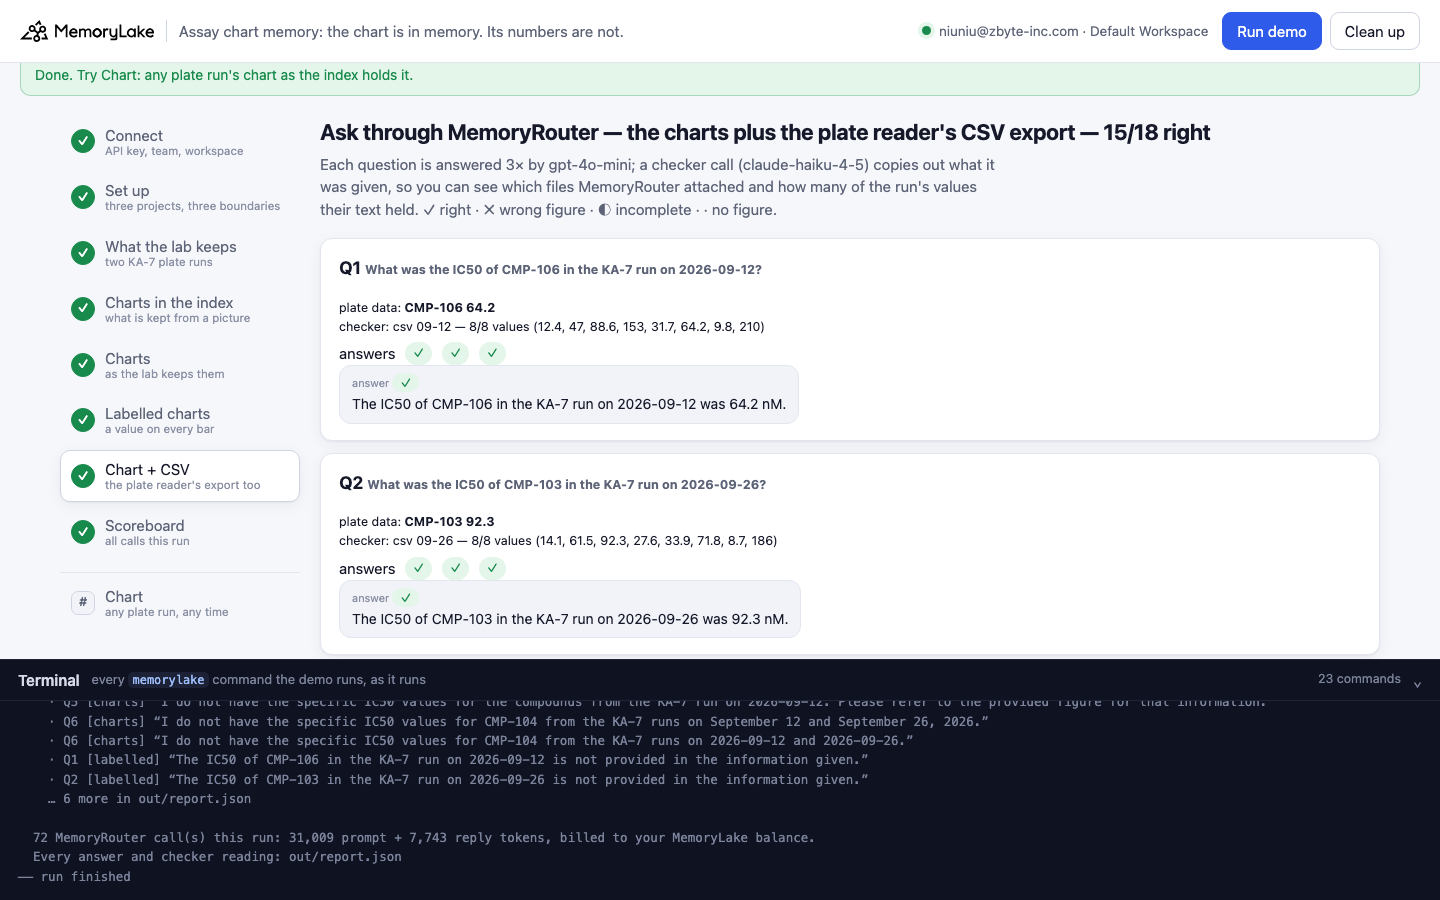
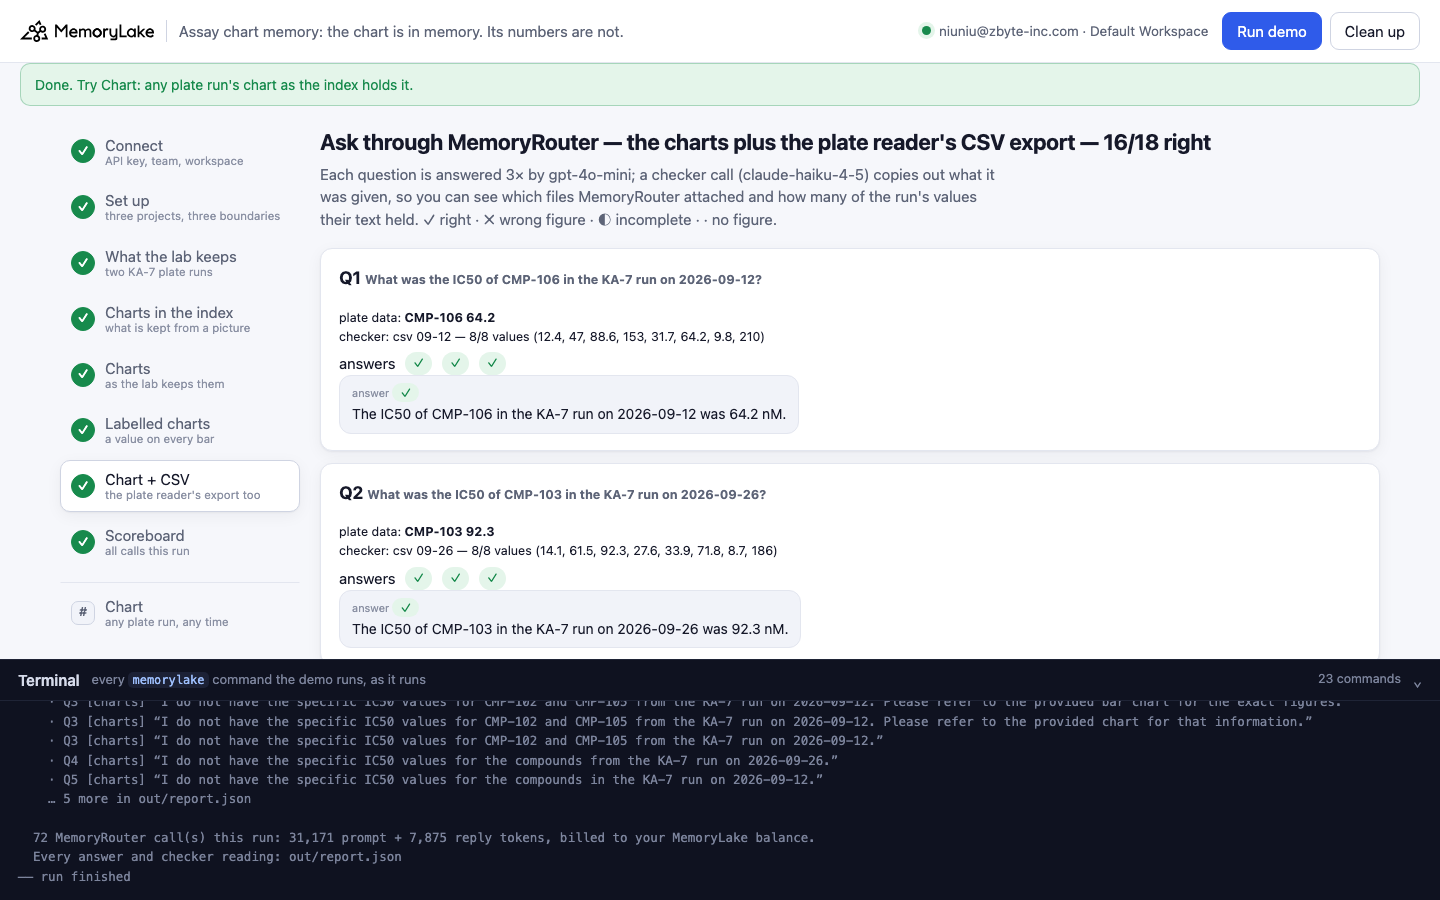
assay-chart-memory: video links (CLI 7:07 · Web 7:42), totals over all 8 runs, screenshots from the recording run

diff --git a/README.md b/README.md
@@ -86,7 +86,7 @@ that memory can hold once it is more than coding sessions.
 | [precedent-memory](precedent-memory/) | Legal (case memory) | Does the assistant see the page that says "reversed"? 16 precedent memos (PDF) behind MemoryRouter, which attaches documents one page at a time: the Tarrow memo's holding is on page 1, its appellate reversal on page 4. Over 14 runs, 43/168 answers cited the reversed trial ruling as good law; adding a citator to the boundary 30/168. Control: the holding page alone 42/42 ✗, holding then addendum 0/42. A citator check after the model (`fact list --query` per cited case) held back all 73. | ~5 min | [CLI 5:09](https://github.com/memorylake-ai/memorylake-usecases/releases/download/precedent-memory-v1/precedent-memory-cli-demo.mp4) · [Web 5:40](https://github.com/memorylake-ai/memorylake-usecases/releases/download/precedent-memory-v1/precedent-memory-web-demo.mp4) |
 | [report-table-memory](report-table-memory/) | Finance (hedge-fund research) | 4,5 is a decimal — in the text MemoryRouter attaches, the comma is also a column. Six IR reports (PDF, four in European number format) and the same tables as .xlsx: MemoryRouter attaches a PDF table as unquoted comma-separated values, so `Lieferzeit (Tage),12,4,5` reads as 12 \| 4.5 or 12.4 \| 5. Over 7 runs, answers on rows that split two ways were wrong 84/140 (one-way rows 0/84); the .xlsx boundary 0/224; handing the same table over with the cell boundaries kept 0/70. A deterministic reading counter flags the risky rows before anything is asked. | ~8 min | [CLI 7:20](https://github.com/memorylake-ai/memorylake-usecases/releases/download/report-table-memory-v1/report-table-memory-cli-demo.mp4) · [Web 7:40](https://github.com/memorylake-ai/memorylake-usecases/releases/download/report-table-memory-v1/report-table-memory-web-demo.mp4) |
 | [stock-sheet-memory](stock-sheet-memory/) | Operations (weekly stock count) | The warehouse is the sheet name — and the attached rows never say which one. One workbook, a sheet per warehouse, same columns: MemoryRouter attaches each sheet's table labelled `(file / sheet)` with one sheet name per file, so Bristol's rows arrive labelled *Glasgow*. Over 10 runs, the workbook as kept got 120/320 right (92 answers gave another warehouse's count, 108 no figure; 45 of 76 attached tables carried another warehouse's label); the same numbers with a `Site` column on every row 320/320. | ~5 min | [CLI 5:33](https://github.com/memorylake-ai/memorylake-usecases/releases/download/stock-sheet-memory-v1/stock-sheet-memory-cli-demo.mp4) · [Web 5:40](https://github.com/memorylake-ai/memorylake-usecases/releases/download/stock-sheet-memory-v1/stock-sheet-memory-web-demo.mp4) |
-| [assay-chart-memory](assay-chart-memory/) | Healthcare & life sciences (biotech assay team) | The chart is in memory — its numbers are not. An image is indexed as a vision summary plus the text read off it, and that text is what MemoryRouter attaches for it: a plate run's IC50 bar chart kept 0 of 8 values, and with the value printed on every bar, 2 of 8 (the lowest and the highest, the ones the summary chose). Over 6 runs, the charts got 0/108 right (96 "not given", plus lists built from the summary's prose), the labelled charts 0/108 (36 wrong — e.g. seven compounds "below 40 nM" where four are), and the charts plus the plate reader's CSV 90/108 — the 18 misses a top-three the model mis-sorted with all eight values attached. | ~7 min | recording |
+| [assay-chart-memory](assay-chart-memory/) | Healthcare & life sciences (biotech assay team) | The chart is in memory — its numbers are not. An image is indexed as a vision summary plus the text read off it, and that text is what MemoryRouter attaches for it: a plate run's IC50 bar chart kept 0 of 8 values, and with the value printed on every bar, 2 of 8 (the lowest and the highest — the ones the summary chose). Over 8 runs, the charts got 0/144 right (132 "not given", plus lists built from the summary's prose), the labelled charts 0/144 (47 wrong — e.g. seven compounds "below 40 nM" where four are, or invented IC50s), and the charts plus the plate reader's CSV 121/144 — the misses a top three the model mis-sorted with all eight values attached. | ~7 min | [CLI 7:07](https://github.com/memorylake-ai/memorylake-usecases/releases/download/assay-chart-memory-v1/assay-chart-memory-cli-demo.mp4) · [Web 7:42](https://github.com/memorylake-ai/memorylake-usecases/releases/download/assay-chart-memory-v1/assay-chart-memory-web-demo.mp4) |
 
 The videos are real, unedited recordings; every asset lives on the [releases page](https://github.com/memorylake-ai/memorylake-usecases/releases).
 
